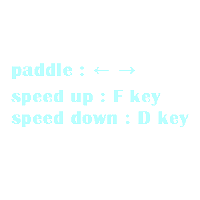
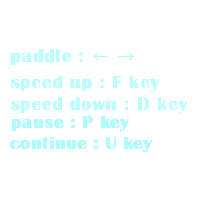
Make user pause game using keys

diff --git a/brickout.py b/brickout.py
@@ -151,6 +151,7 @@ def main():
     replay = Text("Replay [Press spacebar]", WHITE, font2, (play_screen.rect.centerx, play_screen.rect.centery + 140))
     tryagain = Text("Try Again!! [Press spacebar]", WHITE, font2, (play_screen.rect.centerx, play_screen.rect.centery + 100))
     congrats = Text("Wow! Congratulations!", PINK, font4, (play_screen.rect.centerx, play_screen.rect.centery + 70))
+    pause_text = Text("Pause", YELLOW, font5, (play_screen.rect.centerx, play_screen.rect.centery))
 
     # 0번째 원소 = 일반 블럭 컬러, 1번째 원소 = 특수 블럭 컬러
     colors = [(RED, RED2, YELLOW, GREEN, NAVY, NAVY2, BLUE, PURPLE), (OLIVE, SALMON)]
@@ -167,6 +168,7 @@ def main():
         num = random.randint(0, 5*len(colors[0])-1)
         blocks[num].color = color
 
+    pause = False
     running = True
     win = False
     while running:
@@ -205,66 +207,74 @@ def main():
                     if ball.speed > min_speed:
                         ball.speed -= 1
                         displayed_speed -= 1
+                if event.key == K_p:
+                    pause = True
+                elif event.key == K_u:
+                    pause = False
             elif event.type == KEYUP:
                 if event.key == K_LEFT:
                     keys[0] = False
                 elif event.key == K_RIGHT:
                     keys[1] = False
-        if keys[0]:
-            if paddle.rect.left > play_xpos:
-                paddle.rect.centerx -= 10
-        elif keys[1]:
-            if paddle.rect.right < play_screen.rect.right:
-                paddle.rect.centerx += 10
 
-        if lives:
-            if ball.rect.centery < play_screen.rect.bottom + 400:
-                ball.move()                
-                if ball.rect.left < play_screen.rect.left:
-                    ball.rect.left = play_screen.rect.left
-                elif ball.rect.right > play_screen.rect.right:
-                    ball.rect.right = play_screen.rect.right
-                elif ball.rect.top < play_screen.rect.top:
-                    ball.rect.top = play_screen.rect.top
-                
-                if len(blocks) == 0:
-                    win = True
-                    running = False
+        if not pause:
+            if keys[0]:
+                if paddle.rect.left > play_xpos:
+                    paddle.rect.centerx -= 10
+            elif keys[1]:
+                if paddle.rect.right < play_screen.rect.right:
+                    paddle.rect.centerx += 10
+                    
+            if lives:
+                if ball.rect.centery < play_screen.rect.bottom + 400:
+                    ball.move()                
+                    if ball.rect.left < play_screen.rect.left:
+                        ball.rect.left = play_screen.rect.left
+                    elif ball.rect.right > play_screen.rect.right:
+                        ball.rect.right = play_screen.rect.right
+                    elif ball.rect.top < play_screen.rect.top:
+                        ball.rect.top = play_screen.rect.top
+                    
+                    if len(blocks) == 0:
+                        win = True
+                        running = False
+                else:
+                    lives.pop()
+                    ball.rect = Rect(ball_startpos)
+                    ball.dir = random.randint(-30, 30) + 270
+                    ball.speed = min_speed
+                    displayed_speed = 1
+                    ball.move()
             else:
-                lives.pop()
-                ball.rect = Rect(ball_startpos)
-                ball.dir = random.randint(-30, 30) + 270
-                ball.speed = min_speed
-                displayed_speed = 1
-                ball.move()
+                running = False
+
+            collide(colors[1])
+            ball.draw_ellipse()
+            bottom_screen.draw_rect()
+            paddle.draw_rect()
+            for block in blocks:
+                if block.color in colors[1]:
+                    block.draw_ellipse()
+                else:
+                    block.draw_rect()
+
+            for obstacle in obstacles:
+                if obstacle.color == colors[1][0]:
+                    imgRect = blind.get_rect(center = (play_screen.rect.centerx, play_screen.rect.centery))
+                    screen.blit(blind, imgRect)
+                elif obstacle.color == colors[1][1]:
+                    imgRect = blind2.get_rect(center = (play_screen.rect.centerx, play_screen.rect.centery))
+                    screen.blit(blind2, imgRect)
+            
+            # 일정 시간이 지나면 장애물 제거
+            for i in range(len(timers)):
+                timers[i] += 1
+            for timer in timers:
+                if timer >= 200:
+                    timers.remove(timer)
+                    obstacles.pop(0)
         else:
-            running = False
-
-        collide(colors[1])
-        ball.draw_ellipse()
-        bottom_screen.draw_rect()
-        paddle.draw_rect()
-        for block in blocks:
-            if block.color in colors[1]:
-                block.draw_ellipse()
-            else:
-                block.draw_rect()
-
-        for obstacle in obstacles:
-            if obstacle.color == colors[1][0]:
-                imgRect = blind.get_rect(center = (play_screen.rect.centerx, play_screen.rect.centery))
-                screen.blit(blind, imgRect)
-            elif obstacle.color == colors[1][1]:
-                imgRect = blind2.get_rect(center = (play_screen.rect.centerx, play_screen.rect.centery))
-                screen.blit(blind2, imgRect)
-        
-        # 일정 시간이 지나면 장애물 제거
-        for i in range(len(timers)):
-            timers[i] += 1
-        for timer in timers:
-            if timer >= 200:
-                timers.remove(timer)
-                obstacles.pop(0)
+            screen.blit(pause_text.textrender, pause_text.textrect)
 
         pygame.display.flip()
         fpsClock.tick(FPS)
